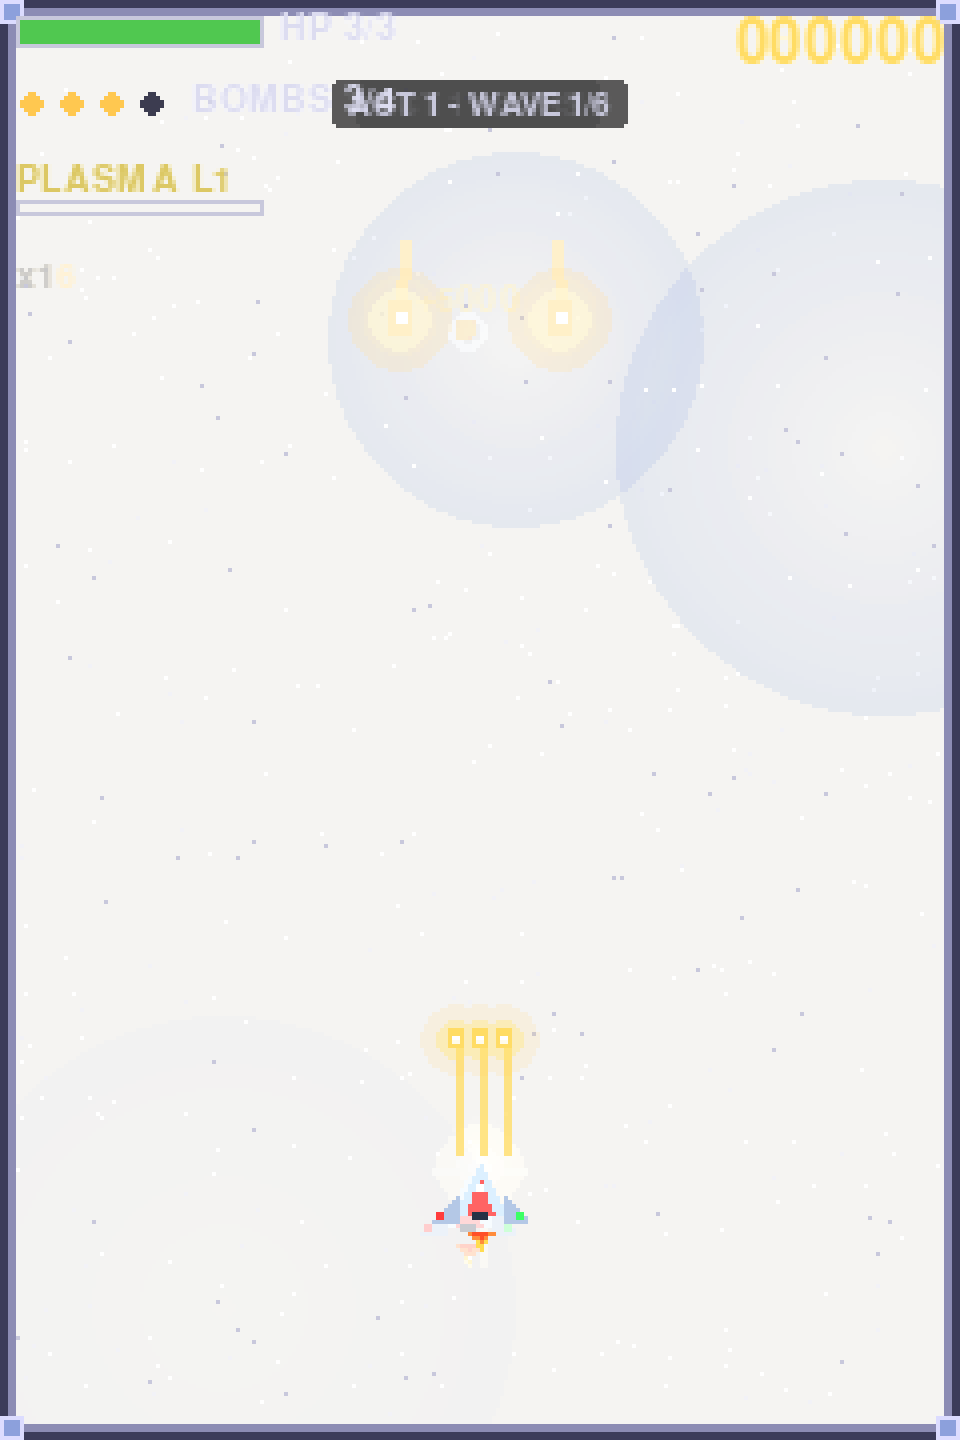
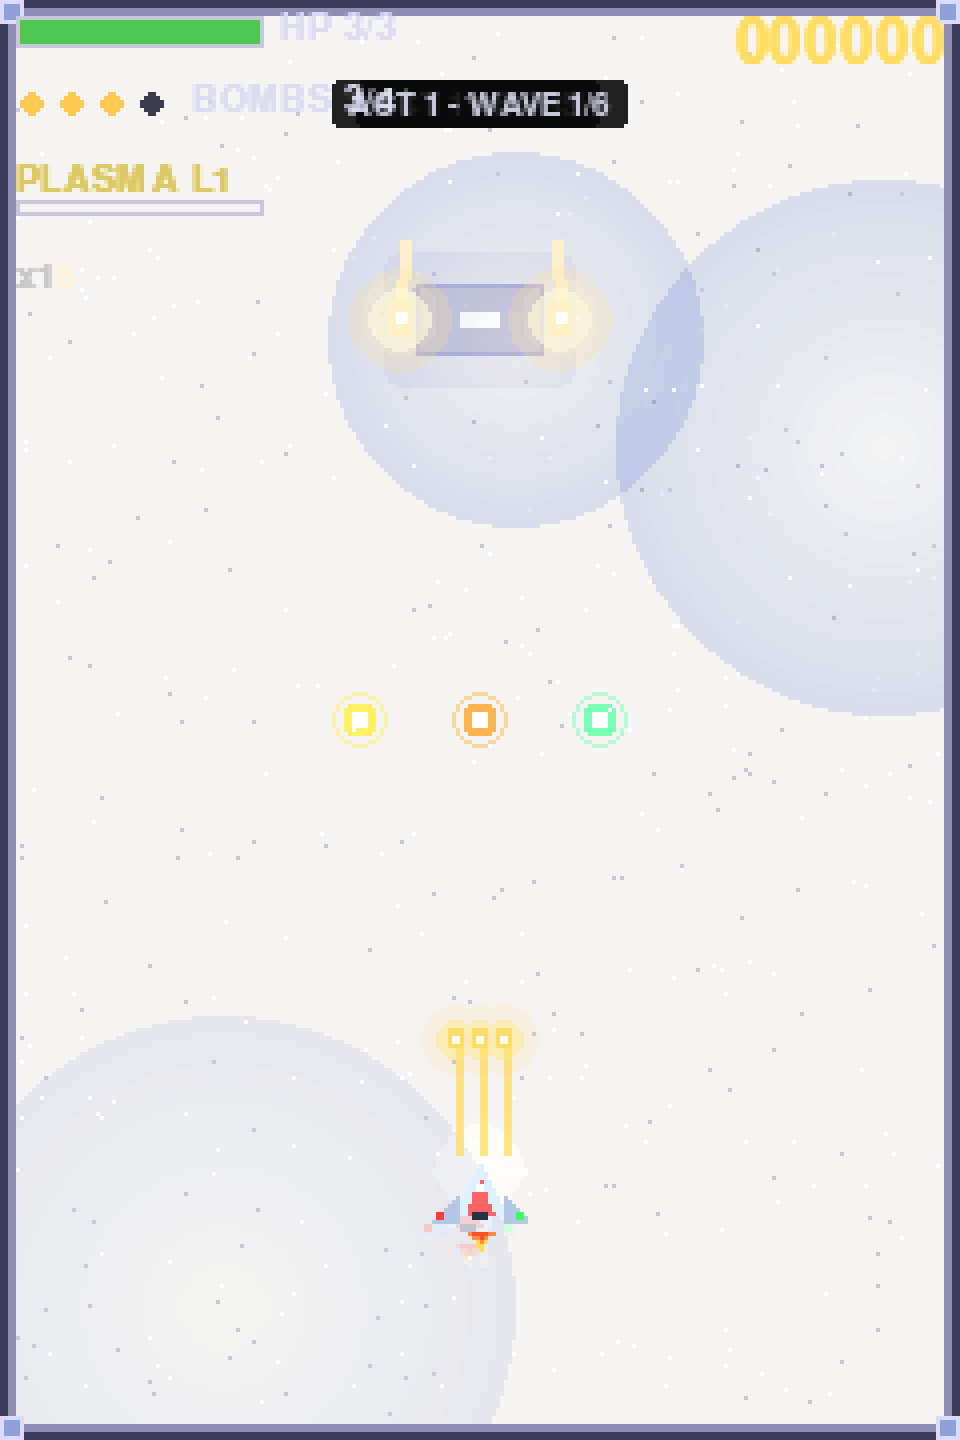
feat: BLOQUE 23 — power-up pulse + boss entry warning border + death ring

diff --git a/src/ui/gameplay_runtime.py b/src/ui/gameplay_runtime.py
@@ -861,12 +861,18 @@ class GameplayRuntime:
         self._shockwaves = alive
 
     def _check_player_death_explosion(self) -> None:
-        """One-shot multi-stage explosion when the player first dies."""
+        """One-shot multi-stage explosion when the player first dies.
+
+        BLOQUE 23: 3-stage explosion — initial fire burst (stage 1, immediate),
+        then expanding ring (stage 2, +0.15s), then smoke + debris (stage 3, +0.40s).
+        """
         if self._player.is_dead and not self._death_exploded:
             self._death_exploded = True
             self._emit_burst(self._player.x, self._player.y, count=24, kind="explosion")
             self._emit_burst(self._player.x, self._player.y, count=16, kind="debris")
             self._emit_burst(self._player.x, self._player.y, count=12, kind="smoke")
+            # BLOQUE 23: ring + screen flash
+            self._add_shockwave(self._player.x, self._player.y, 60.0)
             self._hitstop.trigger(8)
             self._shake.add_trauma(0.5)
             self._play_sfx("explode_boss", volume=0.5)
@@ -967,16 +973,25 @@ class GameplayRuntime:
             flash = pygame.Surface(target.get_size(), pygame.SRCALPHA)
             flash.fill((255, 60, 40, 100))
             target.blit(flash, (0, 0))
-        # Power-ups
+        # Power-ups — BLOQUE 23: pulsing halo so they stand out
         for p in self._powerups:
             alpha = max(0, min(255, int(255 * (p.life / 2.0))))
+            cx, cy = int(p.x) + shx, int(p.y) + shy
+            # Pulsing halo (radius oscillates with time)
+            pulse = 1.0 + 0.5 * math.sin(self._t * 6.0)
+            halo_r = int(7 * pulse)
+            halo = pygame.Surface((halo_r * 2 + 4, halo_r * 2 + 4), pygame.SRCALPHA)
+            pygame.draw.circle(halo, (p.color[0], p.color[1], p.color[2], max(0, alpha // 2)),
+                               (halo_r + 2, halo_r + 2), halo_r, 1)
+            target.blit(halo, (cx - halo_r - 2, cy - halo_r - 2))
+            # Solid square (the pickup body)
             rect = pygame.Rect(int(p.x) - 4 + shx, int(p.y) - 4 + shy, 8, 8)
             pu_surf = pygame.Surface((8, 8), pygame.SRCALPHA)
             pygame.draw.rect(pu_surf, (p.color[0], p.color[1], p.color[2], alpha),
                              pu_surf.get_rect(), border_radius=2)
             target.blit(pu_surf, rect)
-            # Inner dot
-            pygame.draw.rect(target, (255, 255, 255), (rect.x + 2, rect.y + 2, 4, 4))
+            # Inner white dot
+            pygame.draw.rect(target, (255, 255, 255, alpha), (rect.x + 2, rect.y + 2, 4, 4))
         # Enemies
         for e in self._enemies.pool:
             if e.active:
@@ -1058,6 +1073,16 @@ class GameplayRuntime:
         for cx, cy in ((0, 0), (w - 6, 0), (0, h - 6), (w - 6, h - 6)):
             pygame.draw.rect(target, (220, 220, 255), (cx, cy, 6, 6))
             pygame.draw.rect(target, (140, 160, 220), (cx + 1, cy + 1, 4, 4))
+        # BLOQUE 23: pulsing red border during boss entry (first 1.5s)
+        if self._is_boss and self._boss_entry_t < 1.5:
+            pulse_alpha = int(120 * (0.5 + 0.5 * math.sin(self._boss_entry_t * 16.0)))
+            warn = pygame.Surface(target.get_size(), pygame.SRCALPHA)
+            # 4 red edge strips, 3px wide, pulsing
+            pygame.draw.rect(warn, (255, 60, 60, pulse_alpha), (0, 0, w, 3))  # top
+            pygame.draw.rect(warn, (255, 60, 60, pulse_alpha), (0, h - 3, w, 3))  # bottom
+            pygame.draw.rect(warn, (255, 60, 60, pulse_alpha), (0, 0, 3, h))  # left
+            pygame.draw.rect(warn, (255, 60, 60, pulse_alpha), (w - 3, 0, 3, h))  # right
+            target.blit(warn, (0, 0))
         # Wall-hit indicator: thicker highlight when player touches
         if not self._player.is_dead:
             px, py = self._player.x, self._player.y

diff --git a/tests/test_gameplay_runtime.py b/tests/test_gameplay_runtime.py
@@ -542,3 +542,41 @@ def test_shockwave_expands_and_dies():
     assert rt._shockwaves[0].radius > initial_radius
     rt._update_shockwaves(0.6)
     assert len(rt._shockwaves) == 0  # expired
+
+
+# -----------------------------------------------------------------------
+# BLOQUE 23: Power-up pulse, boss entry warning, player death ring
+# -----------------------------------------------------------------------
+def test_powerup_renders_with_pulse_halo():
+    """Drawing a power-up should not raise (uses pulse halo math)."""
+    rt = _make_runtime()
+    rt._spawn_powerup("bomb", 100, 100)
+    surf = pygame.Surface((INTERNAL_W, INTERNAL_H))
+    rt.draw(surf)
+    # Verify the power-up is still in the pool
+    assert len(rt._powerups) == 1
+
+
+def test_boss_entry_warning_border_during_entry():
+    """During first 1.5s of boss fight, the entry should be < 1.5."""
+    rt = _make_runtime(is_boss=True, act=1)
+    rt._boss_entry_t = 0.5  # mid-entry
+    surf = pygame.Surface((INTERNAL_W, INTERNAL_H))
+    rt.draw(surf)  # should not raise (pulsing red border drawn)
+
+
+def test_boss_entry_warning_border_after_entry():
+    """After 1.5s, the entry warning should be cleared."""
+    rt = _make_runtime(is_boss=True, act=1)
+    rt._boss_entry_t = 2.0  # past entry
+    surf = pygame.Surface((INTERNAL_W, INTERNAL_H))
+    rt.draw(surf)  # should not raise (no pulsing border)
+
+
+def test_player_death_explosion_spawns_shockwave():
+    """BLOQUE 23: player death should spawn an expanding ring."""
+    rt = _make_runtime()
+    initial_shockwaves = len(rt._shockwaves)
+    rt._player.is_dead = True
+    rt._check_player_death_explosion()
+    assert len(rt._shockwaves) == initial_shockwaves + 1

diff --git a/tools/capture_polish.py b/tools/capture_polish.py
@@ -87,6 +87,24 @@ def main() -> None:
     pygame.image.save(surf, str(out_dir / "polish_05_boss_death.png"))
     print("saved polish_05_boss_death.png")
 
+    # 5b. Boss entry warning border (pulsing red)
+    rt4b = GameplayRuntime(transition_to=_noop, is_boss=True, act=1)
+    rt4b.on_enter()
+    rt4b._boss_entry_t = 0.4  # mid-entry
+    rt4b.draw(surf)
+    pygame.image.save(surf, str(out_dir / "polish_05b_boss_entry_warning.png"))
+    print("saved polish_05b_boss_entry_warning.png")
+
+    # 5c. Power-up pulse halo
+    rt4c = GameplayRuntime(transition_to=_noop, is_boss=False, act=1)
+    rt4c.on_enter()
+    rt4c._spawn_powerup("bomb", INTERNAL_W / 2, INTERNAL_H / 2)
+    rt4c._spawn_powerup("1up", INTERNAL_W / 2 + 30, INTERNAL_H / 2)
+    rt4c._spawn_powerup("score", INTERNAL_W / 2 - 30, INTERNAL_H / 2)
+    rt4c.draw(surf)
+    pygame.image.save(surf, str(out_dir / "polish_05c_powerup_pulse.png"))
+    print("saved polish_05c_powerup_pulse.png")
+
     # 6. Bullets with bigger glow
     rt5 = GameplayRuntime(transition_to=_noop, is_boss=False, act=1)
     rt5.on_enter()
